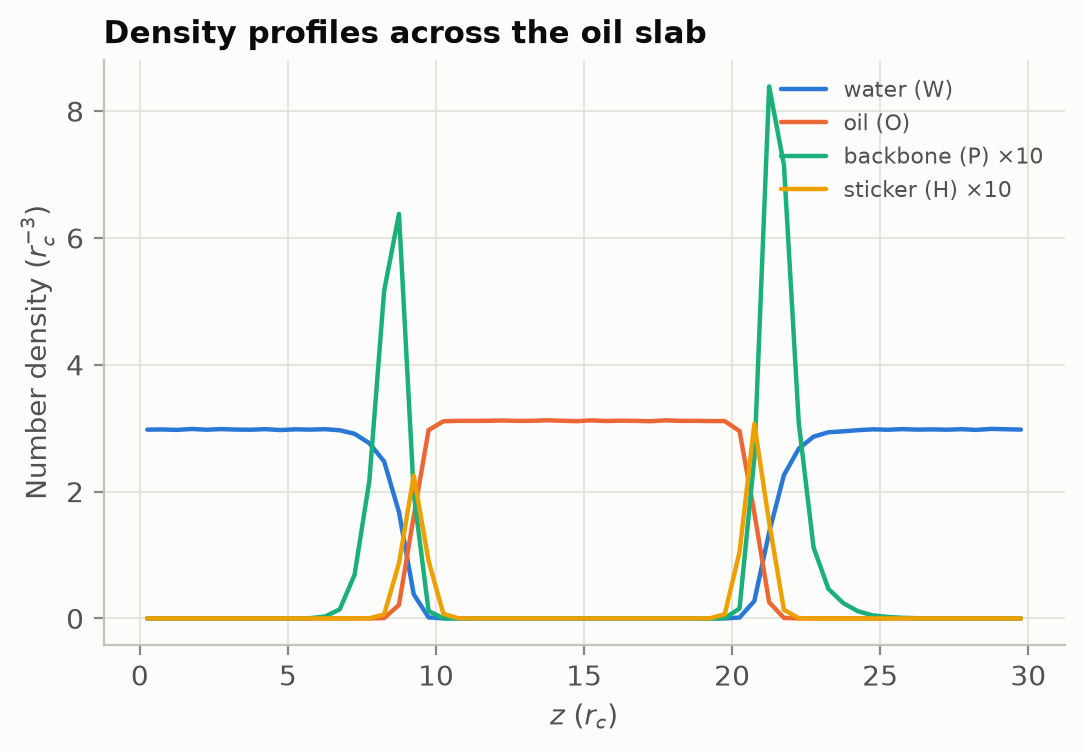
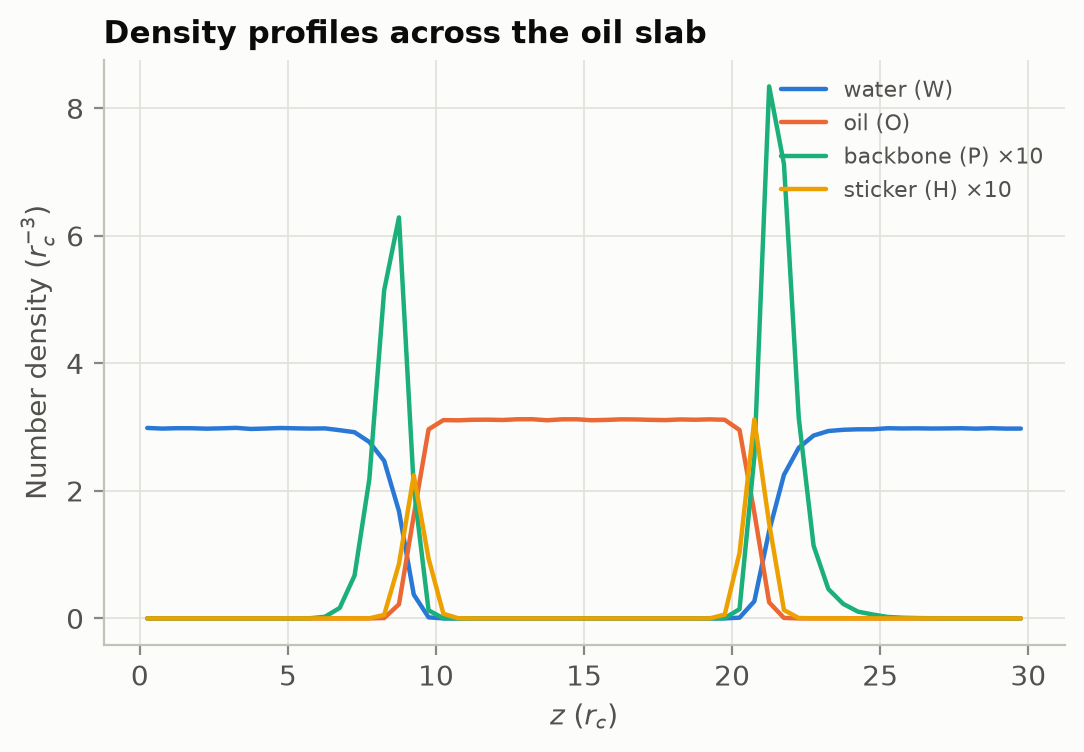
Regenerate figures with the fixed analysis; update README numbers
All figures rerun with scripts/reproduce_figures.sh (8 cores, 100 min,
LAMMPS 22 Jul 2025 Update 4).

- dose_response.png, kinetics.png: W uses the contact capture distance;
  W ~ 0.94 at the optimal dose (was 0.7).
- pmf.png: bootstrap errors referenced like the PMF; one chain
  -3.8 +- 0.2 kT (was +- 0.9), inward windows -3.5 +- 0.1 kT.
- Interface figures from a fresh run: the clean-interface tension moved
  from 3.95 to 4.01, three times its error bar. The README gives the new
  values and says differences in the tension change below ~0.1 are not
  resolved by these runs.
- chain_scaling.png, eos.png and flocculation.gif came out bitwise
  identical.
- DPD bond length measured at 0.77 +- 0.13 r_c (ff_dpd.lmp said ~0.85).

diff --git a/README.md b/README.md
@@ -49,8 +49,8 @@ Models, parameters and the mapping to real units are in [docs/science.md](docs/s
 
 * **High charge density (f = 1): charge neutralisation.** Chains adsorb flat.
   Flocs peak where the floc charge crosses zero (Φ ≈ 1), where aggregation is
-  diffusion-limited (W ≈ 0.7). Overdosing reverses the charge (+40 e per
-  colloid at Φ = 3) and restabilises the dispersion.
+  diffusion-limited (W ≈ 0.94). Overdosing reverses the charge (+40 e per
+  colloid at Φ = 3) and restabilises the dispersion (W ≈ 10).
 * **Low charge density (f = 0.25): bridging.** Chains adsorb in loops and
   tails. Colloids never touch, yet up to 62 % of the chains bridge two or more
   colloids and the bridged flocs span almost the whole system.
@@ -60,17 +60,25 @@ Models, parameters and the mapping to real units are in [docs/science.md](docs/s
 <img src="figures/pmf.png" width="560" alt="Bridging free energy">
 
 Without polymer, the PMF matches the analytic DLVO repulsion (RMSD 0.09 k<sub>B</sub>T).
-One chain turns the 10 k<sub>B</sub>T barrier into a −3.8 ± 0.9 k<sub>B</sub>T well;
+One chain turns the 10 k<sub>B</sub>T barrier into a −3.8 ± 0.2 k<sub>B</sub>T well
+(−3.5 ± 0.1 k<sub>B</sub>T when the windows run inwards, so little hysteresis);
 two chains (overdosed) give only −2.0 ± 0.2 k<sub>B</sub>T.
 
 ### 3. Adsorbing is not the same as lowering the interfacial tension
 
 <img src="figures/interface_summary.png" alt="Flocculant architecture at the oil/water interface">
 
-Plain PAM stays in the water. Every HM-PAM architecture adsorbs, but only
-distributed stickers (random, blocky) flatten the chain on the interface and
-lower γ (about 3 %). End-anchored stickers (telechelic, diblock) leave the
-hydrophilic block dangling in the water and barely change γ.
+Plain PAM stays mostly in the water (29 % of the chains reach the interface)
+and leaves γ unchanged. Every HM-PAM architecture adsorbs, but distributed
+stickers (random, blocky) flatten the chains the most and lower γ the most
+(about 4 %). End-anchored stickers (telechelic, diblock) leave the
+hydrophilic block dangling in the water and lower γ less (2.5 % and 1.5 %).
+
+These are single short runs: regenerating the figure from the same inputs
+moved the clean-interface γ from 3.95 to 4.01 k<sub>B</sub>T/r<sub>c</sub><sup>2</sup>,
+three times its error bar, so differences in Δγ below ~0.1 are not resolved.
+The ordering of the architectures and the flattening did not change, and the
+adsorbed fractions moved by less than 0.1.
 
 ### 0. Validation
 

diff --git a/docs/science.md b/docs/science.md
@@ -128,7 +128,8 @@ Repulsions follow $a_{ij} = 25 + 3.27\chi_{ij}$ (Groot & Madden 1998). Defaults:
 $\chi$ can be estimated from solubility parameters
 (`theory.chi_from_solubility`) or, better, from atomistic simulations
 (see `roadmap.md`). Bonds are harmonic, $E = K (r - r_0)^2$ with $K = 25$,
-$r_0 = 0.7\,r_c$, giving bond lengths of $0.76 \pm 0.1\,r_c$. Bonded beads keep
+$r_0 = 0.7\,r_c$, giving bond lengths of $0.77 \pm 0.13\,r_c$ (measured over all bonds of
+the interface runs). Bonded beads keep
 their pair forces (`special_bonds lj 1 1 1`).
 
 > **Pitfall: soft bonds and ghost atoms.** The original Groot–Warren spring
